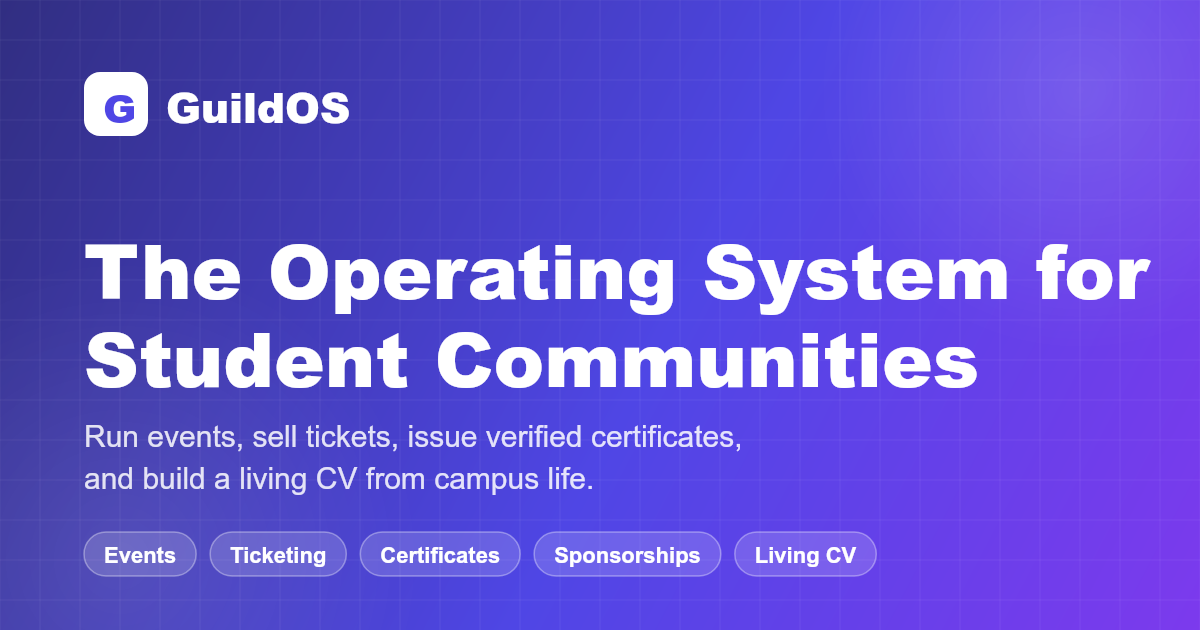
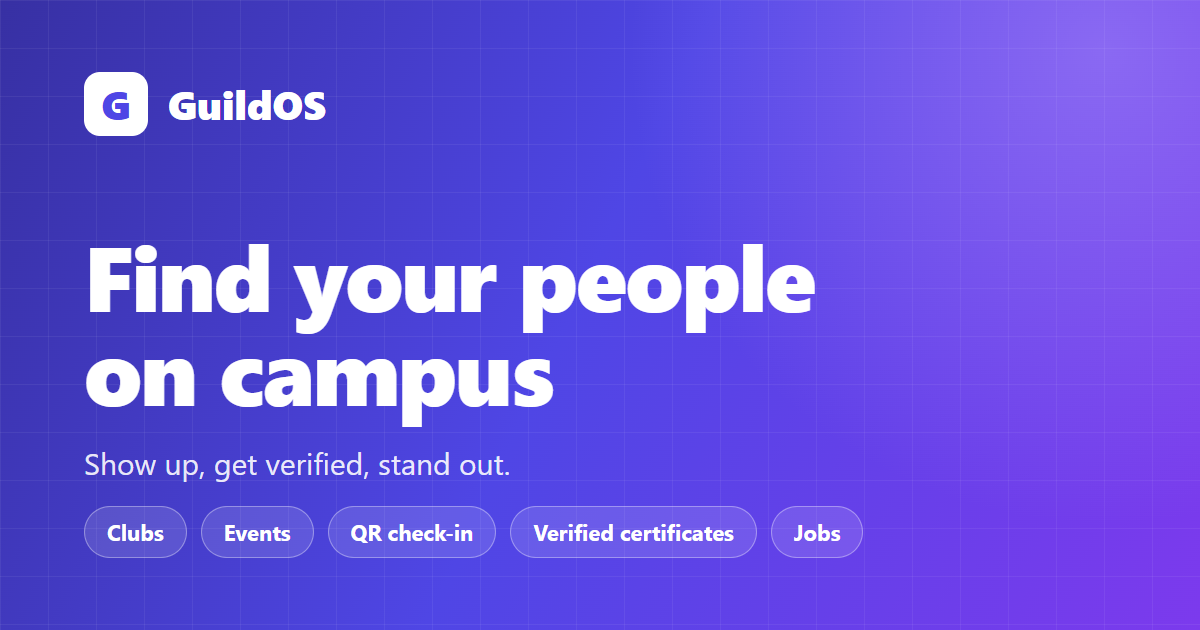
copy: browser tab title, link preview and manifest use the new tagline

Changed region(s): [[0.0, 0.0, 0.9558, 0.9349], [0.6783, 0.0, 0.8325, 0.181], [0.8942, 0.0, 0.925, 0.0302]]

diff --git a/frontend/app/layout.tsx b/frontend/app/layout.tsx
@@ -16,9 +16,9 @@ const inter = Inter({ subsets: ['latin'], display: 'swap', variable: '--font-int
 const display = Bricolage_Grotesque({ subsets: ['latin'], display: 'swap', weight: ['500', '600', '700', '800'], variable: '--font-display-next' });
 
 const SITE_URL = process.env.NEXT_PUBLIC_SITE_URL ?? 'http://localhost:3000';
-const SITE_TITLE = 'GuildOS | Campus Activities Into a Professional Portfolio';
+const SITE_TITLE = 'GuildOS | Find your people on campus';
 const SITE_DESCRIPTION =
-  'GuildOS helps student communities manage events, verify attendance with QR check-ins, issue certificates, and build student portfolios from campus activities.';
+  'Find your people on campus. Join clubs, check in to events with a QR pass, earn verified certificates and stand out to employers.';
 
 export const viewport: Viewport = {
   themeColor: '#4f46e5',
@@ -43,7 +43,7 @@ export const metadata: Metadata = {
         url: '/og.png',
         width: 1200,
         height: 630,
-        alt: 'GuildOS, the operating system for student communities',
+        alt: 'GuildOS: find your people on campus',
       },
     ],
   },

diff --git a/frontend/app/dashboard/events/attendees/page.tsx b/frontend/app/dashboard/events/attendees/page.tsx
@@ -669,7 +669,7 @@ function AppreciationDesigner({ open, busy, onClose, onSend }: {
               ) : null}
             </div>
             <div className="mt-4 border-t border-slate-100 px-6 py-4">
-              <p className="text-[11px] text-slate-400 dark:text-slate-500">GuildOS: turn campus activity into a verified professional portfolio.</p>
+              <p className="text-[11px] text-slate-400 dark:text-slate-500">GuildOS: find your people on campus.</p>
             </div>
           </div>
         </div>

diff --git a/frontend/app/manifest.ts b/frontend/app/manifest.ts
@@ -5,7 +5,7 @@ export default function manifest(): MetadataRoute.Manifest {
     name: 'GuildOS',
     short_name: 'GuildOS',
     description:
-      'Campus communities, events with QR check-in, verifiable certificates, and student portfolios.',
+      'Find your people on campus. Clubs, events with QR check-in, verified certificates and your CV in one place.',
     id: '/',
     start_url: '/home',
     scope: '/',
